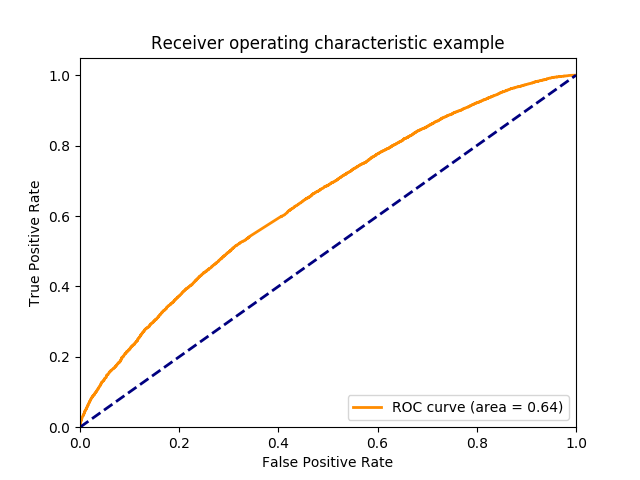
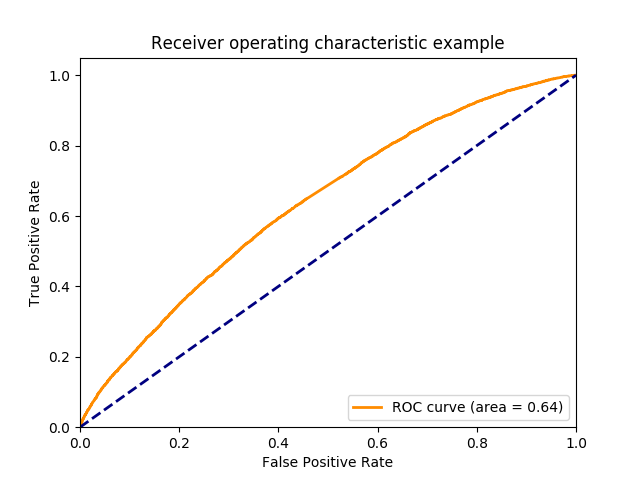
q4

diff --git a/q4/train_and_test.py b/q4/train_and_test.py
@@ -1,0 +1,145 @@
+import pickle
+import pandas as pd
+import numpy as np
+import sys
+import tensorflow_datasets as tfds
+from tensorflow import keras
+import tensorflow as tf
+from tensorflow.keras.preprocessing.sequence import pad_sequences
+from tensorflow.keras.callbacks import ModelCheckpoint
+from tensorflow.keras.utils import Sequence
+from sklearn.metrics import roc_curve, auc
+from text_att_birnn import TextAttBiRNN
+import matplotlib.pyplot as plt
+from tensorflow.keras.models import load_model
+
+
+with open('../data/y_train_full.pickle', 'rb') as handle:
+    Y_train = pickle.load(handle)
+with open('../data/y_test_full.pickle', 'rb') as handle:
+    Y_test = pickle.load(handle)
+with open('../data/y_valid_full.pickle', 'rb') as handle:
+    Y_valid = pickle.load(handle)
+
+with open('../data/x_train_full.pickle', 'rb') as handle:
+    X_train = pickle.load(handle)
+with open('../data/x_test_full.pickle', 'rb') as handle:
+    X_test = pickle.load(handle)
+with open('../data/x_valid_full.pickle', 'rb') as handle:
+    X_valid = pickle.load(handle)
+with open('../data/vocab_set_full.pickle', 'rb') as handle:
+    vocabulary_set = pickle.load(handle)
+
+print("Q3: Training on full dataset")
+# X_train = X_train[:50000]
+# Y_train = Y_train[:50000]
+# X_test = X_test[:25000]
+# Y_test = Y_test[:25000]
+# X_valid = X_valid[:25000]
+# Y_valid = Y_valid[:25000]
+
+# Encode training, valid and test instances
+encoder = tfds.features.text.TokenTextEncoder(vocabulary_set)
+maxlen = 1000
+max_features = encoder.vocab_size
+loss_fn = 'binary_crossentropy'
+embedding_dims = 64
+
+# epochs = 10
+# learning_rate = 1e-4
+# batch_size = 256
+# model_name = 'TextAttBiRNN_Two_Layers'
+# layer_size=128
+
+# Read stdin: epochs, learning_rate, batch_size, model_name layer_size
+epochs = int(sys.argv[1])
+learning_rate = float(sys.argv[2])
+batch_size = int(sys.argv[3])
+model_name = sys.argv[4]
+layer_size = sys.argv[5]
+
+# Model Definition
+if model_name == 'TextRNN':
+    model = TextRNN(maxlen,max_features,embedding_dims)
+elif model_name == 'VariedLayerSizeTextRNN':
+    model = VariedLayerSizeTextRNN(maxlen,max_features,embedding_dims, layer_size)
+elif model_name == 'MultiLayerTextRNN':
+    model = MultiLayerTextRNN(maxlen,max_features,embedding_dims, layer_size)
+elif model_name == 'TextAttBiRNN':
+    model = TextAttBiRNN(maxlen,max_features,embedding_dims)
+else:
+    print("Invalid model name, exiting")
+    exit()
+    
+# Learning rate
+opt = keras.optimizers.Adam(learning_rate=learning_rate)
+model.compile(optimizer=opt, loss=loss_fn, metrics=['accuracy'])
+
+print("Training {0} with {1} epochs, {2} learning rate, {3} batch size, and {4} layer_size".format(
+    model_name,
+    epochs,
+    learning_rate,
+    batch_size,
+    layer_size))
+
+# Building generators
+class CustomGenerator(Sequence):
+    def __init__(self, text, labels, batch_size, num_steps=None):
+        self.text, self.labels = text, labels
+        self.batch_size = batch_size
+        self.len = np.ceil(len(self.text) / float(self.batch_size)).astype(np.int64)
+        if num_steps:
+            self.len = min(num_steps, self.len)
+    def __len__(self):
+        return self.len
+    def __getitem__(self, idx):
+        batch_x = self.text[idx * self.batch_size:(idx + 1) * self.batch_size]
+        batch_y = self.labels[idx * self.batch_size:(idx + 1) * self.batch_size]
+        return np.array(batch_x), np.array(batch_y)
+
+
+train_gen = CustomGenerator(X_train, Y_train, batch_size)
+valid_gen = CustomGenerator(X_valid, Y_valid, batch_size)
+test_gen = CustomGenerator(X_test, Y_test, batch_size)
+
+# Training the model
+checkpointer = ModelCheckpoint('../data/models/model-' + str(model_name) + '-{epoch:02d}-{val_loss:.5f}.hdf5',
+                               monitor='val_loss',
+                               verbose=2,
+                               save_weights_only=False,
+                               save_best_only=True,
+                               mode='min')
+
+callback_list = [checkpointer] #, , reduce_lr
+
+his1 = model.fit_generator(
+                    generator=train_gen,
+                    epochs=epochs,
+                    validation_data=valid_gen,
+                    callbacks=callback_list)
+
+# model.summary()
+                                                       
+predIdxs = model.predict_generator(test_gen, verbose=2)
+
+fpr, tpr, _ = roc_curve(Y_test, predIdxs)
+roc_auc = auc(fpr, tpr)
+
+plt.figure()
+lw = 2
+plt.plot(fpr, tpr, color='darkorange', lw=lw, label='ROC curve (area = %0.2f)' % roc_auc)
+plt.plot([0, 1], [0, 1], color='navy', lw=lw, linestyle='--')
+plt.xlim([0.0, 1.0])
+plt.ylim([0.0, 1.05])
+plt.xlabel('False Positive Rate')
+plt.ylabel('True Positive Rate')
+plt.title('Receiver operating characteristic example')
+plt.legend(loc="lower right")
+
+plt.savefig('auc_model_' + str(model_name) + '_' + str(epochs) + '_' + str(learning_rate) + '_' + str(batch_size) + '_' + str(loss_fn) + '.png')
+
+                    
+                    
+                    
+                    
+                    

diff --git a/q4/attention.py b/q4/attention.py
@@ -1,0 +1,95 @@
+from tensorflow.keras import backend as K
+from tensorflow.keras import initializers, regularizers, constraints
+from tensorflow.keras.layers import Layer
+
+
+class Attention(Layer):
+    def __init__(self, step_dim,
+                 W_regularizer=None, b_regularizer=None,
+                 W_constraint=None, b_constraint=None,
+                 bias=True, **kwargs):
+        """
+        Keras Layer that implements an Attention mechanism for temporal data.
+        Supports Masking.
+        Follows the work of Raffel et al. [https://arxiv.org/abs/1512.08756]
+        # Input shape
+            3D tensor with shape: `(samples, steps, features)`.
+        # Output shape
+            2D tensor with shape: `(samples, features)`.
+        :param kwargs:
+        Just put it on top of an RNN Layer (GRU/LSTM/SimpleRNN) with return_sequences=True.
+        The dimensions are inferred based on the output shape of the RNN.
+        Example:
+            # 1
+            model.add(LSTM(64, return_sequences=True))
+            model.add(Attention())
+            # next add a Dense layer (for classification/regression) or whatever...
+            # 2
+            hidden = LSTM(64, return_sequences=True)(words)
+            sentence = Attention()(hidden)
+            # next add a Dense layer (for classification/regression) or whatever...
+        """
+        self.supports_masking = True
+        self.init = initializers.get('glorot_uniform')
+
+        self.W_regularizer = regularizers.get(W_regularizer)
+        self.b_regularizer = regularizers.get(b_regularizer)
+
+        self.W_constraint = constraints.get(W_constraint)
+        self.b_constraint = constraints.get(b_constraint)
+
+        self.bias = bias
+        self.step_dim = step_dim
+        self.features_dim = 0
+
+        super(Attention, self).__init__(**kwargs)
+
+    def build(self, input_shape):
+        assert len(input_shape) == 3
+
+        self.W = self.add_weight(name='{}_W'.format(self.name),
+                                 shape=(input_shape[-1],),
+                                 initializer=self.init,
+                                 regularizer=self.W_regularizer,
+                                 constraint=self.W_constraint)
+        self.features_dim = input_shape[-1]
+
+        if self.bias:
+            self.b = self.add_weight(name='{}_b'.format(self.name),
+                                     shape=(input_shape[1],),
+                                     initializer='zero',
+                                     regularizer=self.b_regularizer,
+                                     constraint=self.b_constraint)
+        else:
+            self.b = None
+
+        self.built = True
+
+    def compute_mask(self, input, input_mask=None):
+        # do not pass the mask to the next layers
+        return None
+
+    def call(self, x, mask=None):
+        features_dim = self.features_dim
+        step_dim = self.step_dim
+
+        e = K.reshape(K.dot(K.reshape(x, (-1, features_dim)), K.reshape(self.W, (features_dim, 1))), (-1, step_dim))  # e = K.dot(x, self.W)
+        if self.bias:
+            e += self.b
+        e = K.tanh(e)
+
+        a = K.exp(e)
+        # apply mask after the exp. will be re-normalized next
+        if mask is not None:
+            # cast the mask to floatX to avoid float64 upcasting in theano
+            a *= K.cast(mask, K.floatx())
+        # in some cases especially in the early stages of training the sum may be almost zero
+        # and this results in NaN's. A workaround is to add a very small positive number ε to the sum.
+        a /= K.cast(K.sum(a, axis=1, keepdims=True) + K.epsilon(), K.floatx())
+        a = K.expand_dims(a)
+
+        c = K.sum(a * x, axis=1)
+        return c
+
+    def compute_output_shape(self, input_shape):
+        return input_shape[0], self.features_dim

diff --git a/q4/load_weights.py b/q4/load_weights.py
@@ -1,0 +1,74 @@
+import pickle
+import pandas as pd
+import numpy as np
+import tensorflow_datasets as tfds
+from tensorflow import keras
+import tensorflow as tf
+from tensorflow.keras.preprocessing.sequence import pad_sequences
+from tensorflow.keras.callbacks import ModelCheckpoint
+from tensorflow.keras.utils import Sequence
+from sklearn.metrics import roc_curve, auc
+from text_rnn import TextRNN, VariedLayerSizeTextRNN, MultiLayerTextRNN
+import matplotlib.pyplot as plt
+from tensorflow.keras.models import load_model
+
+with open('../data/x_train_full.pickle', 'rb') as handle:
+    X_train = pickle.load(handle)
+with open('../data/vocab_set_full.pickle', 'rb') as handle:
+    vocabulary_set = pickle.load(handle)
+with open('../data/x_test_full.pickle', 'rb') as handle:
+    X_test = pickle.load(handle)
+with open('../data/y_test_full.pickle', 'rb') as handle:
+    Y_test = pickle.load(handle)
+    
+encoder = tfds.features.text.TokenTextEncoder(vocabulary_set)
+maxlen = 1000
+max_features = encoder.vocab_size
+embedding_dims = 64
+epochs = 1
+learning_rate = 0.0001
+loss_fn = 'binary_crossentropy'
+batch_size = 256
+model_name = 'TextRNN'
+layer_size = 128
+
+model = TextRNN(maxlen,max_features,embedding_dims)
+# model = MultiLayerTextRNN(maxlen,max_features,embedding_dims, layer_size)
+model.build(X_train.shape)
+
+# model.load_weights('../data/models/model-TextRNN-01-0.66301.hdf5')
+model.load_weights('../data/models/model-TextRNN-01-0.48146.hdf5')
+
+# Building generators
+class CustomGenerator(Sequence):
+    def __init__(self, text, labels, batch_size, num_steps=None):
+        self.text, self.labels = text, labels
+        self.batch_size = batch_size
+        self.len = np.ceil(len(self.text) / float(self.batch_size)).astype(np.int64)
+        if num_steps:
+            self.len = min(num_steps, self.len)
+    def __len__(self):
+        return self.len
+    def __getitem__(self, idx):
+        batch_x = self.text[idx * self.batch_size:(idx + 1) * self.batch_size]
+        batch_y = self.labels[idx * self.batch_size:(idx + 1) * self.batch_size]
+        return np.array(batch_x), np.array(batch_y)
+
+test_gen = CustomGenerator(X_test, Y_test, batch_size)
+predIdxs = model.predict_generator(test_gen, verbose=2)
+
+fpr, tpr, _ = roc_curve(Y_test, predIdxs)
+roc_auc = auc(fpr, tpr)
+
+plt.figure()
+lw = 2
+plt.plot(fpr, tpr, color='darkorange', lw=lw, label='ROC curve (area = %0.2f)' % roc_auc)
+plt.plot([0, 1], [0, 1], color='navy', lw=lw, linestyle='--')
+plt.xlim([0.0, 1.0])
+plt.ylim([0.0, 1.05])
+plt.xlabel('False Positive Rate')
+plt.ylabel('True Positive Rate')
+plt.title('Receiver operating characteristic example')
+plt.legend(loc="lower right")
+
+plt.savefig('auc_model_' + str(model_name) + '_Full_' + str(epochs) + '_' + str(learning_rate) + '_' + str(batch_size) + '_' + str(loss_fn) + '.png')

diff --git a/q4/text_att_birnn.py b/q4/text_att_birnn.py
@@ -1,0 +1,33 @@
+from tensorflow.keras import Model
+from tensorflow.keras.layers import Embedding, Dense, LSTM, Bidirectional
+from attention import Attention
+
+
+class TextAttBiRNN(Model):
+    def __init__(self,
+                 maxlen,
+                 max_features,
+                 embedding_dims,
+                 class_num=1,
+                 last_activation='sigmoid'):
+        super(TextAttBiRNN, self).__init__()
+        self.maxlen = maxlen
+        self.max_features = max_features
+        self.embedding_dims = embedding_dims
+        self.class_num = class_num
+        self.last_activation = last_activation
+        self.embedding = Embedding(self.max_features, self.embedding_dims, input_length=self.maxlen)
+        self.bi_rnn = Bidirectional(LSTM(128, return_sequences=True))  # LSTM or GRU
+        self.attention = Attention(self.maxlen)
+        self.classifier = Dense(self.class_num, activation=self.last_activation)
+
+    def call(self, inputs):
+        if len(inputs.get_shape()) != 2:
+            raise ValueError('The rank of inputs of TextAttBiRNN must be 2, but now is %d' % len(inputs.get_shape()))
+        if inputs.get_shape()[1] != self.maxlen:
+            raise ValueError('The maxlen of inputs of TextAttBiRNN must be %d, but now is %d' % (self.maxlen, inputs.get_shape()[1]))
+        embedding = self.embedding(inputs)
+        x = self.bi_rnn(embedding)
+        x = self.attention(x)
+        output = self.classifier(x)
+        return output
